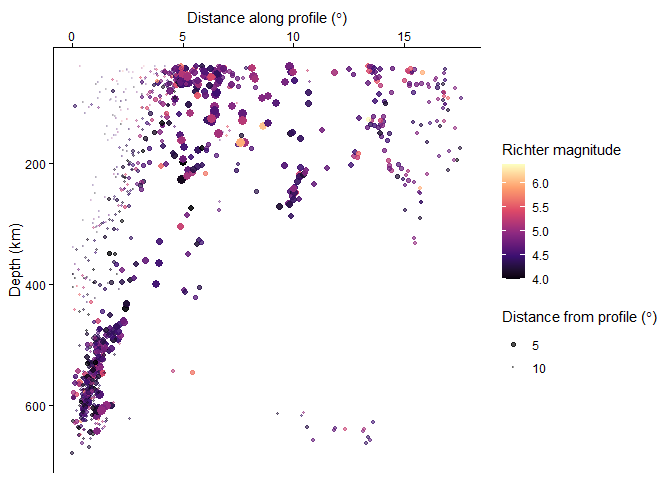
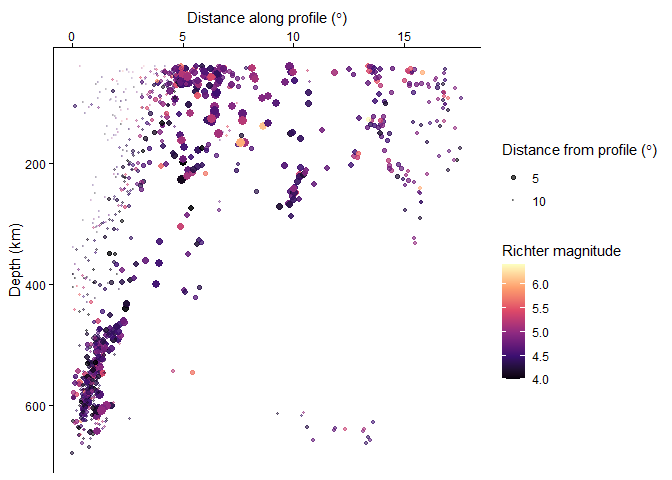
bug fix

Changed region(s): [[0.75, 0.2812, 0.9688, 0.8125]]

diff --git a/README.md b/README.md
@@ -11,9 +11,9 @@
 [![codecov](https://codecov.io/gh/tobiste/geoprofiler/branch/main/graph/badge.svg)](https://app.codecov.io/gh/tobiste/geoprofiler?branch=main)
 <!-- badges: end -->
 
-The goal of `{geoprofiler}` is to get distances along and across
-user-defined profile lines or transects. This is useful to visualize the
-distance-dependency of some variables in the geosciences.
+The goal of `{geoprofiler}` is to get accurate distances along and
+across user-defined profile lines or transects. This is useful to
+visualize the distance-dependency of some variables in the geosciences.
 
 ![](man/figures/fig.png)
 
@@ -45,7 +45,7 @@ This is a basic example which shows you how to create a profile.
 ``` r
 library(geoprofiler)
 library(ggplot2)
-#> Warning: package 'ggplot2' was built under R version 4.5.2
+#> Warning: package 'ggplot2' was built under R version 4.5.3
 ```
 
 Import example data and transfer them into a `sf` object:
